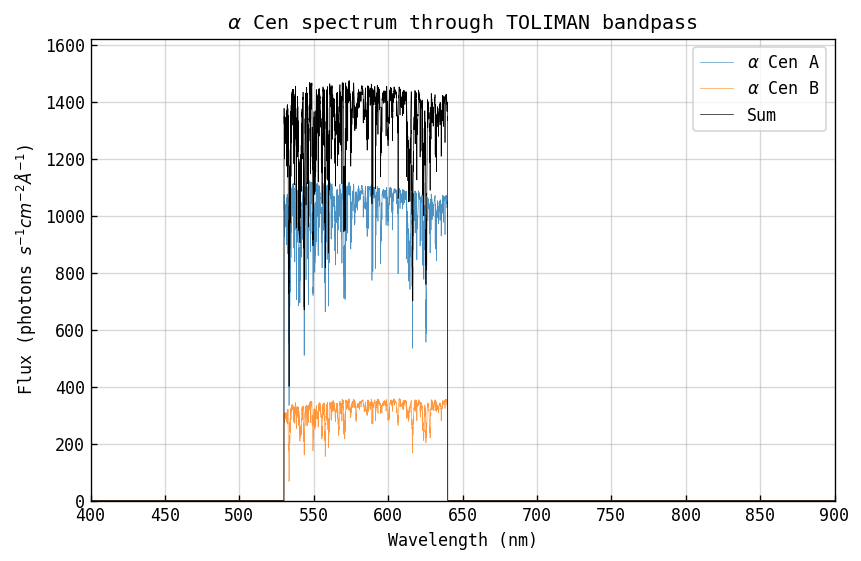
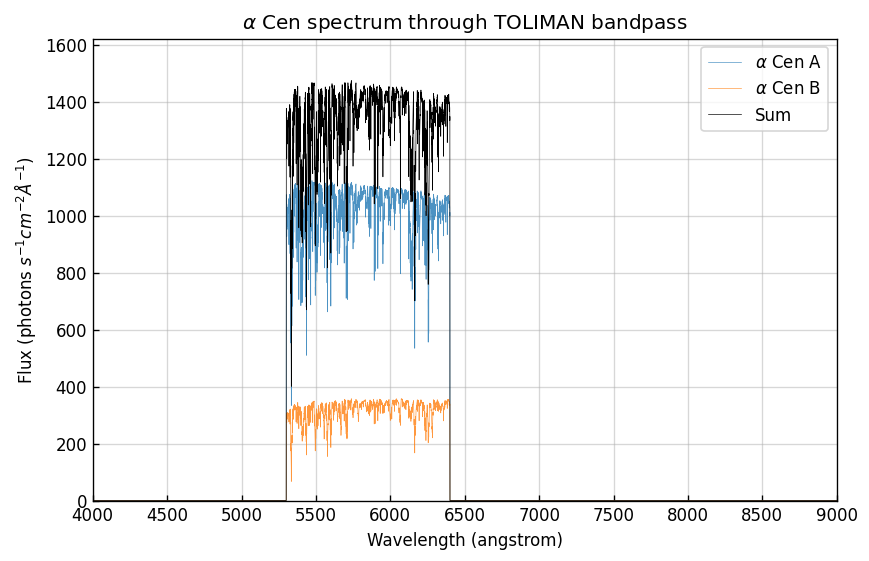
Flux fix (#28)
* flux fix

* Addressing #26 in AlphaCen class

* fixing comments specifying wrong units

diff --git a/dLuxToliman/sources.py b/dLuxToliman/sources.py
@@ -49,7 +49,7 @@ class AlphaCen(Source()):
         position_angle=90,  # degrees
         x_position=0.0,  # arcseconds
         y_position=0.0,  # arcseconds
-        log_flux=6.832,  # Photons
+        log_flux=7.832,  # Photons
         contrast=3.37,
         bandpass=(530, 640),  # nm
         weights=None,

diff --git a/photon_count.md b/photon_count.md
@@ -2,7 +2,7 @@
 
 In this notebook we will use the [PySynPhot](https://pysynphot.readthedocs.io/en/latest/index.html) package to simulate the spectra of the two (brightest) stars in the Alpha Centauri system through the TOLIMAN bandpass. We will then calculate the photon count rate of the two stars.
 
-We will use the PySynPhot built-in Phoenix models for the two stars, which are set of stellar atmosphere models that can be used to generate synthetic spectra. We use the known magnitudes of the two stars (taken from [SIMBAD](http://simbad.cds.unistra.fr/simbad/)) to renormalise the spectra, and then restrict this to the TOLIMAN bandpass of 595nm-695nm. Finally we integrate the resultant spectrum to calculate the photon count rate.
+We will use the PySynPhot built-in Phoenix models for the two stars, which are set of stellar atmosphere models that can be used to generate synthetic spectra. We use the known magnitudes of the two stars (taken from [SIMBAD](http://simbad.cds.unistra.fr/simbad/)) to renormalise the spectra, and then restrict this to the TOLIMAN bandpass of 530nm-640nm. Finally we integrate the resultant spectrum to calculate the photon count rate.
 
 ## Setup
 First we import the necessary packages and set the parameters of the two stars.
@@ -15,7 +15,7 @@ import pysynphot as S
 import os
 
 %matplotlib inline
-plt.rcParams["font.family"] = "monospace"
+# plt.rcParams["font.family"] = "monospace"
 plt.rcParams['figure.dpi'] = 120
 plt.rcParams['xtick.direction'] = 'in'
 plt.rcParams['ytick.direction'] = 'in'
@@ -30,15 +30,16 @@ ALPHA_CEN_B_METALICITY = 0.23
 ALPHA_CEN_B_SURFACE_GRAV = 4.37  # log(g)
 ALPHA_CEN_B_MAGNITUDE = 1.33  # vega magnitude
 
-FILTER_MIN_WAVELENGTH = 530.  # nm
-FILTER_MAX_WAVELENGTH = 640.  # nm
+FILTER_MIN_WAVELENGTH = 5300.  # angstrom
+FILTER_MAX_WAVELENGTH = 6400.  # angstrom
 
-os.chdir('..'); os.chdir('data')  # changing working directory so pysynphot can find the data
+# os.chdir('..'); os.chdir('data')  # changing working directory so pysynphot can find the data
+os.chdir("/Users/mcha5804/data/pysynphot/")
 ```
 
-    /Users/mcha5804/Library/CloudStorage/OneDrive-TheUniversityofSydney(Students)/PyCharm/toliman-phd/venv-fmpb/lib/python3.10/site-packages/pysynphot/locations.py:46: UserWarning: PYSYN_CDBS is undefined; functionality will be SEVERELY crippled.
+    /Users/mcha5804/miniconda3/envs/pysynphot/lib/python3.10/site-packages/pysynphot/locations.py:46: UserWarning: PYSYN_CDBS is undefined; functionality will be SEVERELY crippled.
       warnings.warn("PYSYN_CDBS is undefined; functionality will be SEVERELY "
-    /Users/mcha5804/Library/CloudStorage/OneDrive-TheUniversityofSydney(Students)/PyCharm/toliman-phd/venv-fmpb/lib/python3.10/site-packages/pysynphot/locations.py:345: UserWarning: Extinction files not found in extinction
+    /Users/mcha5804/miniconda3/envs/pysynphot/lib/python3.10/site-packages/pysynphot/locations.py:345: UserWarning: Extinction files not found in extinction
       warnings.warn('Extinction files not found in %s' % (extdir, ))
 
 
@@ -54,24 +55,28 @@ Do the same with the `grid/` directory. I've discovered only `grid/phoenix/phoen
 
 We also have to set the area of the telescope -- I have used the TOLIMAN primary area of 12.5cm diameter and 3.2cm diameter hole.
 
+2025 EDIT:
+
+
 
 ```python
-primary = np.pi*(12.5**2 - 3.2**2)
+primary = np.pi * (12.5**2 - 3.2**2)
 
-S.setref(graphtable='mtab/57g1733im_tmg.fits',
-         comptable='mtab/6cf2109gm_tmc.fits',
-         thermtable='mtab/3241637sm_tmt.fits',
-         area=primary, # not sure that this actually does anyting tbh
-         )
+S.setref(
+    graphtable="mtab/83816517m_tmg.fits",
+    comptable="mtab/8a31932bm_tmc.fits",
+    thermtable="mtab/3241637sm_tmt.fits",
+    area=primary,  # not sure that this actually does anyting tbh
+)
 
-print(f'TOLIMAN Primary Area: {primary:.2f} square cm.')
+print(f"TOLIMAN Primary Area: {primary:.2f} square cm.")
 ```
 
     TOLIMAN Primary Area: 458.70 square cm.
 
 
 ## Generating Spectra
-Now we can generate the spectra of the two stars using the [Phoenix](https://pysynphot.readthedocs.io/en/stable/appendixa.html#pysynphot-appendixa-phoenix) models. We feed the models the surface temperature, metallicity and surface gravity of the stars, and then renormalise the spectra to the known magnitudes of the stars in the V band. We then convert the flux to units of photons $s^{-1}cm^{-2}\AA^{-1}$ and the wavelengths to $nm$. Using the `fe_h` query in [SIMBAD](http://simbad.cds.unistra.fr/simbad/) can get you $\text{T}_\text{{eff}}$, $\text{\log{g}}$ and $\text{Fe}_\text{H}$ for different stars.
+Now we can generate the spectra of the two stars using the [Phoenix](https://pysynphot.readthedocs.io/en/stable/appendixa.html#pysynphot-appendixa-phoenix) models. We feed the models the surface temperature, metallicity and surface gravity of the stars, and then renormalise the spectra to the known magnitudes of the stars in the V band. We then convert the flux to units of photons $s^{-1}cm^{-2}\AA^{-1}$ and the wavelengths to $\AA$. Using the `fe_h` query in [SIMBAD](http://simbad.cds.unistra.fr/simbad/) can get you $\text{T}_\text{{eff}}$, $\log{g}$ and $\text{Fe}_\text{H}$ for different stars.
 
 
 ```python
@@ -90,15 +95,13 @@ B_sp = S.Icat(
 )
 
 # Renormalising to respective magnitudes
-VBand = S.ObsBandpass('v')
-A_sp = A_sp.renorm(RNval=ALPHA_CEN_A_MAGNITUDE, RNUnits='vegamag', band=VBand)
-B_sp = B_sp.renorm(RNval=ALPHA_CEN_B_MAGNITUDE, RNUnits='vegamag', band=VBand)
+VBand = S.ObsBandpass("v")
+A_sp = A_sp.renorm(RNval=ALPHA_CEN_A_MAGNITUDE, RNUnits="vegamag", band=VBand)
+B_sp = B_sp.renorm(RNval=ALPHA_CEN_B_MAGNITUDE, RNUnits="vegamag", band=VBand)
 
 # Converting units
-A_sp.convert('nm')
-A_sp.convert('Photlam')
-B_sp.convert('nm')
-B_sp.convert('Photlam')
+A_sp.convert("Photlam")
+B_sp.convert("Photlam")
 
 sum_sp = A_sp.flux + B_sp.flux
 ```
@@ -107,20 +110,31 @@ We can now plot the spectra of the two stars and the sum of the two spectra, as 
 
 
 ```python
-fig, ax = plt.subplots(figsize=(8,5))
-ax.plot([FILTER_MIN_WAVELENGTH,FILTER_MIN_WAVELENGTH],[0,sum_sp.max()*1.1], 'r--', alpha=.5)
-ax.plot([FILTER_MAX_WAVELENGTH,FILTER_MAX_WAVELENGTH],[0,sum_sp.max()*1.1], 'r--', alpha=.5)
-ax.plot(A_sp.wave, A_sp.flux, label =r'$\alpha$ Cen A', alpha=.5, lw=.4)
-ax.plot(B_sp.wave, B_sp.flux, label =r'$\alpha$ Cen B', alpha=.5, lw=.4)
-ax.plot(A_sp.wave, sum_sp, label ='Sum', c ='k', lw=.4)
-ax.set(title =r'$\alpha$ Cen Spectrum',
-        xlabel = f'Wavelength ({A_sp.waveunits})',
-        ylabel = r'Flux (photons $s^{-1}cm^{-2}\AA^{-1}$)',
-        xlim = (400, 900),
-        xticks = np.linspace(400, 900, 11),
-        ylim = (0, sum_sp.max() * 1.1),
-        )
-ax.grid(alpha = 0.5)
+fig, ax = plt.subplots(figsize=(8, 5))
+ax.plot(
+    [FILTER_MIN_WAVELENGTH, FILTER_MIN_WAVELENGTH],
+    [0, sum_sp.max() * 1.1],
+    "r--",
+    alpha=0.5,
+)
+ax.plot(
+    [FILTER_MAX_WAVELENGTH, FILTER_MAX_WAVELENGTH],
+    [0, sum_sp.max() * 1.1],
+    "r--",
+    alpha=0.5,
+)
+ax.plot(A_sp.wave, A_sp.flux, label=r"$\alpha$ Cen A", alpha=0.5, lw=0.4)
+ax.plot(B_sp.wave, B_sp.flux, label=r"$\alpha$ Cen B", alpha=0.5, lw=0.4)
+ax.plot(A_sp.wave, sum_sp, label="Sum", c="k", lw=0.4)
+ax.set(
+    title=r"$\alpha$ Cen Spectrum",
+    xlabel=f"Wavelength ({A_sp.waveunits})",
+    ylabel=r"Flux (photons $s^{-1}cm^{-2}\AA^{-1}$)",
+    xlim=(4000, 9000),
+    xticks=np.linspace(4000, 9000, 11),
+    ylim=(0, sum_sp.max() * 1.1),
+)
+ax.grid(alpha=0.5)
 ax.legend()
 plt.show()
 ```
@@ -137,19 +151,17 @@ PySynPhot also has a range of other built-in bandpass filters, which can be foun
 
 
 ```python
-# converting to angstrom for pysynphot
-centre = 10 * (FILTER_MIN_WAVELENGTH + FILTER_MAX_WAVELENGTH)/2
-bandwidth = 10 * (FILTER_MAX_WAVELENGTH - FILTER_MIN_WAVELENGTH)
+centre = (FILTER_MIN_WAVELENGTH + FILTER_MAX_WAVELENGTH) / 2
+bandwidth = FILTER_MAX_WAVELENGTH - FILTER_MIN_WAVELENGTH
 
-bandpass = S.Box(centre, bandwidth) # add efficiency factor here
-bandpass.convert('nm')
+bandpass = S.Box(centre, bandwidth, waveunits="angstrom")  # add efficiency factor here
 
-plt.figure(figsize=(5,3))
+plt.figure(figsize=(5, 3))
 plt.plot(bandpass.wave, bandpass.throughput)
 plt.ylim(0, 1.05)
-plt.xlabel(f'Wavelength ({bandpass.waveunits})')
-plt.ylabel('Throughput')
-plt.title('TOLIMAN Bandpass')
+plt.xlabel(f"Wavelength ({bandpass.waveunits})")
+plt.ylabel("Throughput")
+plt.title("TOLIMAN Bandpass")
 plt.show()
 ```
 
@@ -169,26 +181,27 @@ B_obs = S.Observation(B_sp, bandpass)
 sum_obs = A_obs.flux + B_obs.flux
 ```
 
-    (<pysynphot.spectrum.Box object at 0x117733a00>) does not have a defined binset in the wavecat table. The waveset of the spectrum will be used instead.
-    (<pysynphot.spectrum.Box object at 0x117733a00>) does not have a defined binset in the wavecat table. The waveset of the spectrum will be used instead.
+    (<pysynphot.spectrum.Box object at 0x11b5b3580>) does not have a defined binset in the wavecat table. The waveset of the spectrum will be used instead.
+    (<pysynphot.spectrum.Box object at 0x11b5b3580>) does not have a defined binset in the wavecat table. The waveset of the spectrum will be used instead.
 
 
 Plotting as a final sanity check.
 
 
 ```python
-fig, ax = plt.subplots(figsize=(8,5))
-ax.plot(A_obs.wave, A_obs.flux, label=r'$\alpha$ Cen A', alpha=.8, lw=.4)
-ax.plot(B_obs.wave, B_obs.flux, label=r'$\alpha$ Cen B', alpha=.8, lw=.4)
-ax.plot(A_obs.wave, sum_obs, label='Sum', c='k', lw=.4)
-ax.set(title = r'$\alpha$ Cen spectrum through TOLIMAN bandpass',
-        xlabel = f'Wavelength ({A_sp.waveunits})',
-        ylabel = r'Flux (photons $s^{-1}cm^{-2}\AA^{-1}$)',
-        xlim = (400, 900),
-        xticks = np.linspace(400, 900, 11),
-        ylim = (0, sum_obs.max() * 1.1),
-        )
-ax.grid(alpha = 0.5)
+fig, ax = plt.subplots(figsize=(8, 5))
+ax.plot(A_obs.wave, A_obs.flux, label=r"$\alpha$ Cen A", alpha=0.8, lw=0.4)
+ax.plot(B_obs.wave, B_obs.flux, label=r"$\alpha$ Cen B", alpha=0.8, lw=0.4)
+ax.plot(A_obs.wave, sum_obs, label="Sum", c="k", lw=0.4)
+ax.set(
+    title=r"$\alpha$ Cen spectrum through TOLIMAN bandpass",
+    xlabel=f"Wavelength ({A_sp.waveunits})",
+    ylabel=r"Flux (photons $s^{-1}cm^{-2}\AA^{-1}$)",
+    xlim=(4000, 9000),
+    xticks=np.linspace(4000, 9000, 11),
+    ylim=(0, sum_obs.max() * 1.1),
+)
+ax.grid(alpha=0.5)
 ax.legend()
 plt.show()
 ```
@@ -205,17 +218,33 @@ Looks good! Now we can calculate the count rate using the `integrate` method of 
 
 ```python
 countrate = A_obs.integrate() + B_obs.integrate()
-print(f'AlfCen A: {A_obs.integrate():.3e} photons/s/cm/cm; {A_obs.integrate()*primary:.3e} photons/s')
-print(f'AlfCen B: {B_obs.integrate():.3e} photons/s/cm/cm; {B_obs.integrate()*primary:.3e} photons/s')
-print(f'Total count rate: {countrate:.3e} photons/s/cm/cm; {countrate*primary:.3e} photons/s')
+print(
+    f"Alpha Cen A: {A_obs.integrate():.3e} photons/s/cm/cm; {A_obs.integrate()*primary:.3e} photons/s"
+)
+print(
+    f"Alpha Cen B: {B_obs.integrate():.3e} photons/s/cm/cm; {B_obs.integrate()*primary:.3e} photons/s"
+)
+print(
+    f"Total count rate: {countrate:.3e} photons/s/cm/cm; {countrate*primary:.3e} photons/s"
+)
 ```
 
-    AlfCen A: 1.128e+05 photons/s/cm/cm; 5.176e+07 photons/s
-    AlfCen B: 3.524e+04 photons/s/cm/cm; 1.616e+07 photons/s
-    Total count rate: 1.481e+05 photons/s/cm/cm; 6.793e+07 photons/s
+    Alpha Cen A: 1.128e+06 photons/s/cm/cm; 5.176e+08 photons/s
+    Alpha Cen B: 3.524e+05 photons/s/cm/cm; 1.616e+08 photons/s
+    Total count rate: 1.481e+06 photons/s/cm/cm; 6.793e+08 photons/s
 
+
+Great. If we know the TOLIMAN exposure time is 0.1 seconds, then we can calculate the number of photons present in a single frame.
 
 
 ```python
+exp_time = 0.1  # seconds
 
+tot_phot = countrate * primary * exp_time
+print(f"Total photons in {exp_time} seconds: {tot_phot:.3e} photons")
+print(f"Log10 of total photons: {np.log10(tot_phot):.3f}")
 ```
+
+    Total photons in 0.1 seconds: 6.793e+07 photons
+    Log10 of total photons: 7.832
+
